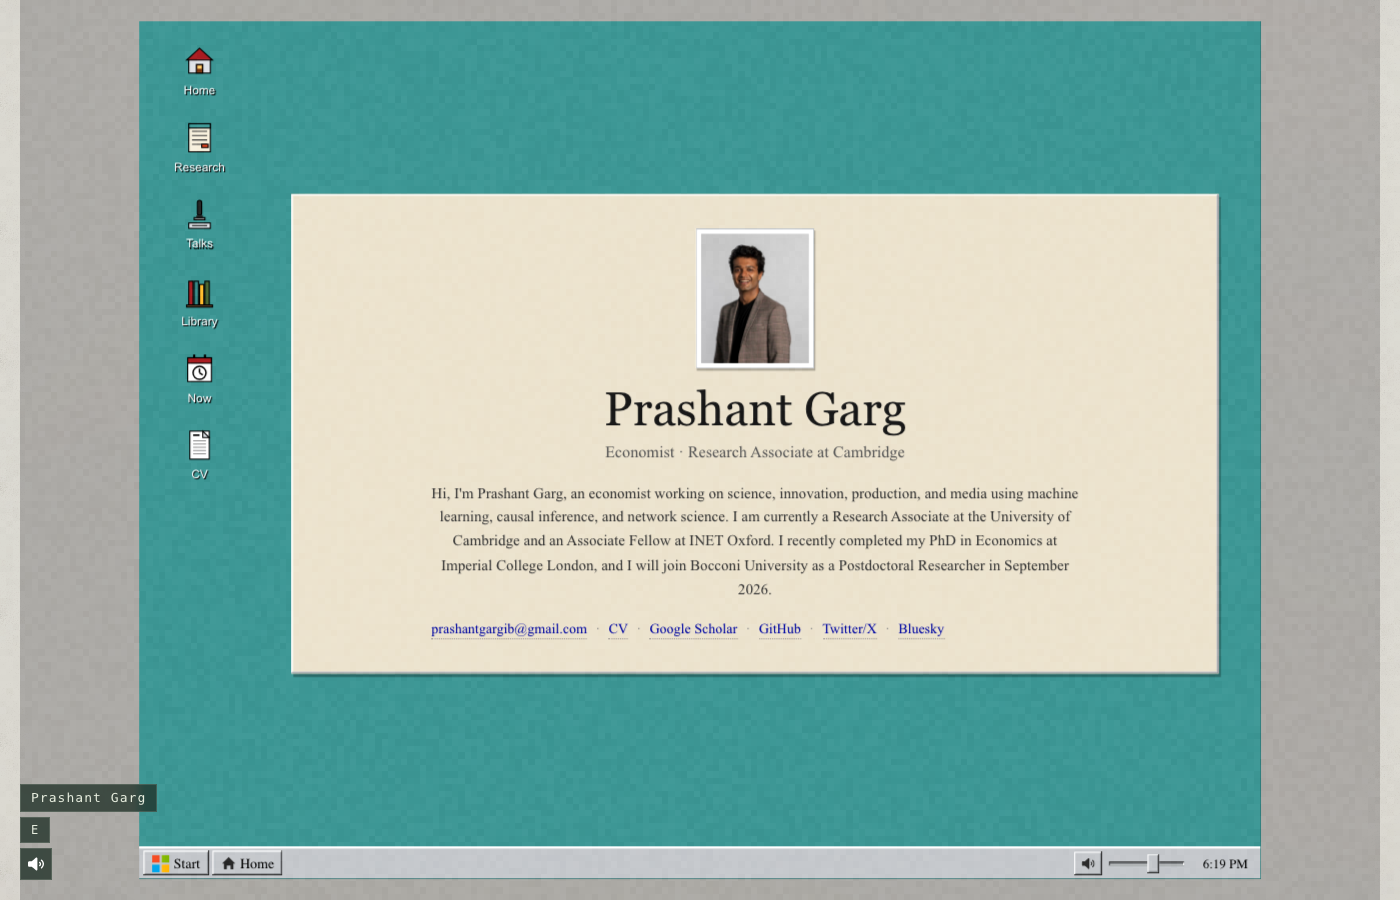
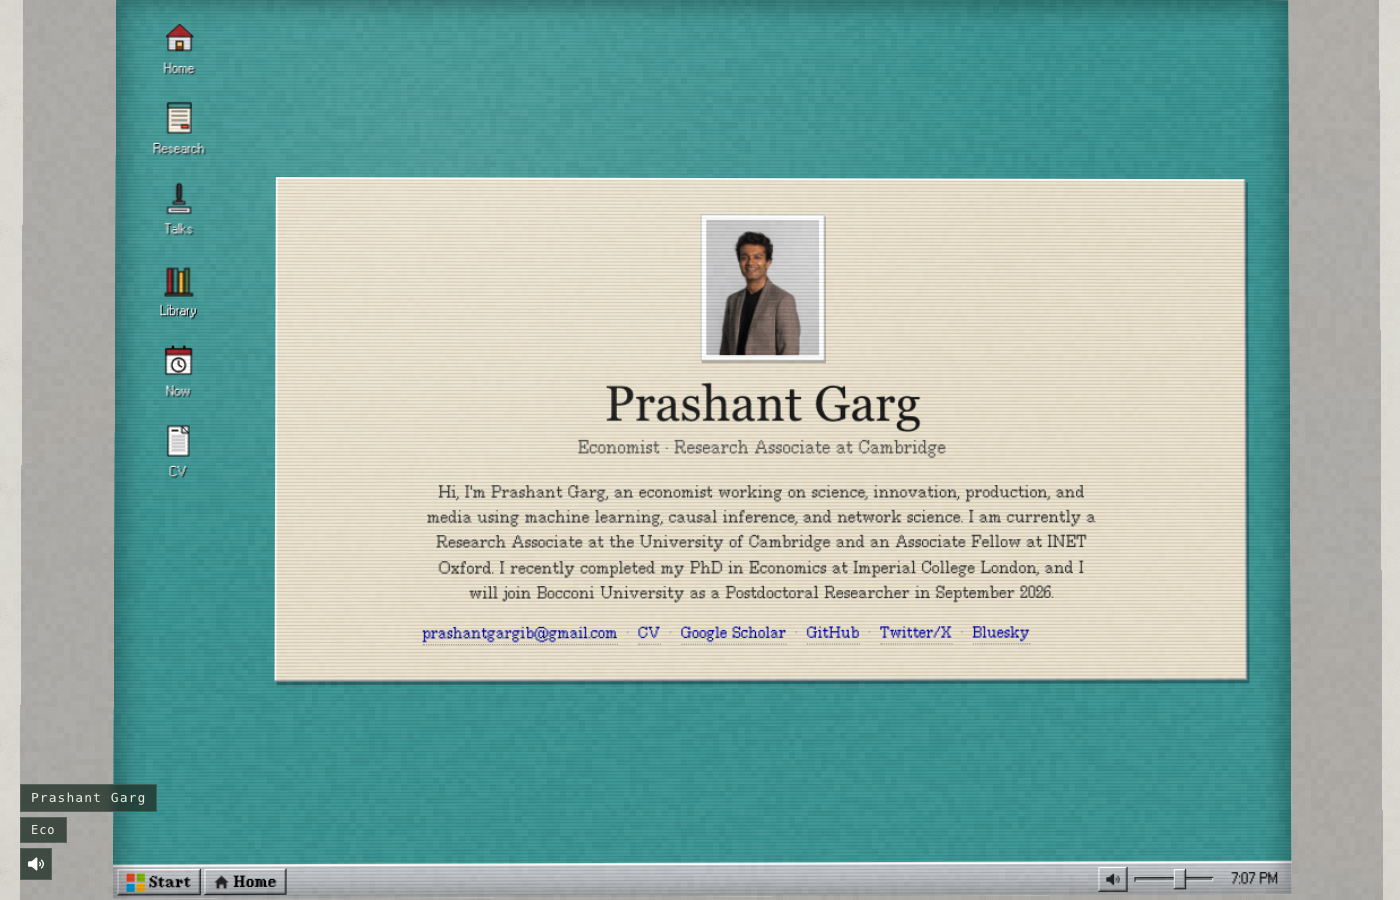
Composited monitor: per-pixel occlusion + gentle camera roam
The last Henry layer. occlude='blending' makes real room geometry that
crosses in front of the screen hide it per-pixel (proven: the monitor's
own bezel was occluding the screen until I moved the composited plane
just in front of the frontmost monitor face, so the bezel now frames it
from behind while room objects still occlude). Added a gentle mouse-orbit
+ idle drift around the screen at the desktop phase so the monitor feels
alive in the room and foreground crosses in front — the composited <Html>
skews with perspective and stays interactive (boot stays dead-still).

Verified: all 3 paths green (default→composite/interactive/bright/glass,
?composite=0→overlay, touch→overlay), zero errors.

Changed region(s): [[0.0307, 0.0, 0.9214, 1.0], [0.9829, 0.9022, 1.0, 1.0]]

diff --git a/src/components/Office.tsx b/src/components/Office.tsx
@@ -575,6 +575,7 @@ function CameraRig({ phase, onArrived, onEntryDone }: {
   const tgt    = useRef(CAM_ENTRY_TGT.clone());
   const fromPos = useRef(CAM_IDLE_POS.clone());
   const fromTgt = useRef(CAM_IDLE_TGT.clone());
+  const roamTarget = useRef(new THREE.Vector3());   // composite-desktop mouse-orbit target
   const startedAt       = useRef<number | null>(null);
   const entryStartTime  = useRef<number | null>(null);
   const arrivedFired    = useRef(false);
@@ -643,6 +644,23 @@ function CameraRig({ phase, onArrived, onEntryDone }: {
     }
     // ── on-monitor / booting / desktop ─────────────────────────────────────
     if (phase === 'on-monitor' || phase === 'booting' || phase === 'desktop') {
+      // COMPOSITE desktop: gentle mouse-orbit + idle drift around the
+      // screen so the monitor feels alive in the room and foreground geometry
+      // crosses in front (the composited <Html> skews with perspective and
+      // gets occluded correctly). Kept small so the screen stays readable +
+      // clickable. Boot stays dead-still (text must be stable).
+      if (COMPOSITE && phase === 'desktop') {
+        const ms = state.clock.elapsedTime * 1000;
+        const driftX = Math.sin(ms * 0.00013) * 0.012;
+        const driftY = Math.sin(ms * 0.00017 + 1.3) * 0.008;
+        const rx = mouse.current.x * 0.075 + driftX;
+        const ry = mouse.current.y * 0.05 + driftY;
+        roamTarget.current.set(endPos.x + rx, endPos.y - ry, endPos.z);
+        camera.position.lerp(roamTarget.current, 0.06);
+        tgt.current.lerp(endTgt, 0.08);
+        camera.lookAt(tgt.current);
+        return;
+      }
       camera.position.lerp(endPos, 0.08);
       tgt.current.lerp(endTgt, 0.08);
       camera.lookAt(tgt.current);
@@ -2446,9 +2464,14 @@ function OfficeScene({ phase, onMonitorClick }: {
       {COMPOSITE && phase === 'desktop' && (
         <Html
           transform
-          position={[MONITOR_WORLD.x, MONITOR_WORLD.y + 0.02, MONITOR_WORLD.z + 0.208]}
+          occlude="blending"
+          /* z just in front of the monitor's frontmost face (inner bezel
+             is at +0.214) so the bezel frames the screen from behind and
+             can't occlude it — while real room geometry crossing in front
+             still hides it correctly via blending occlusion. */
+          position={[MONITOR_WORLD.x, MONITOR_WORLD.y + 0.02, MONITOR_WORLD.z + 0.218]}
           rotation={[0, 0, 0]}
-          scale={0.0131}
+          scale={0.0132}
           distanceFactor={undefined}
           zIndexRange={[100, 0]}
           pointerEvents="auto"
